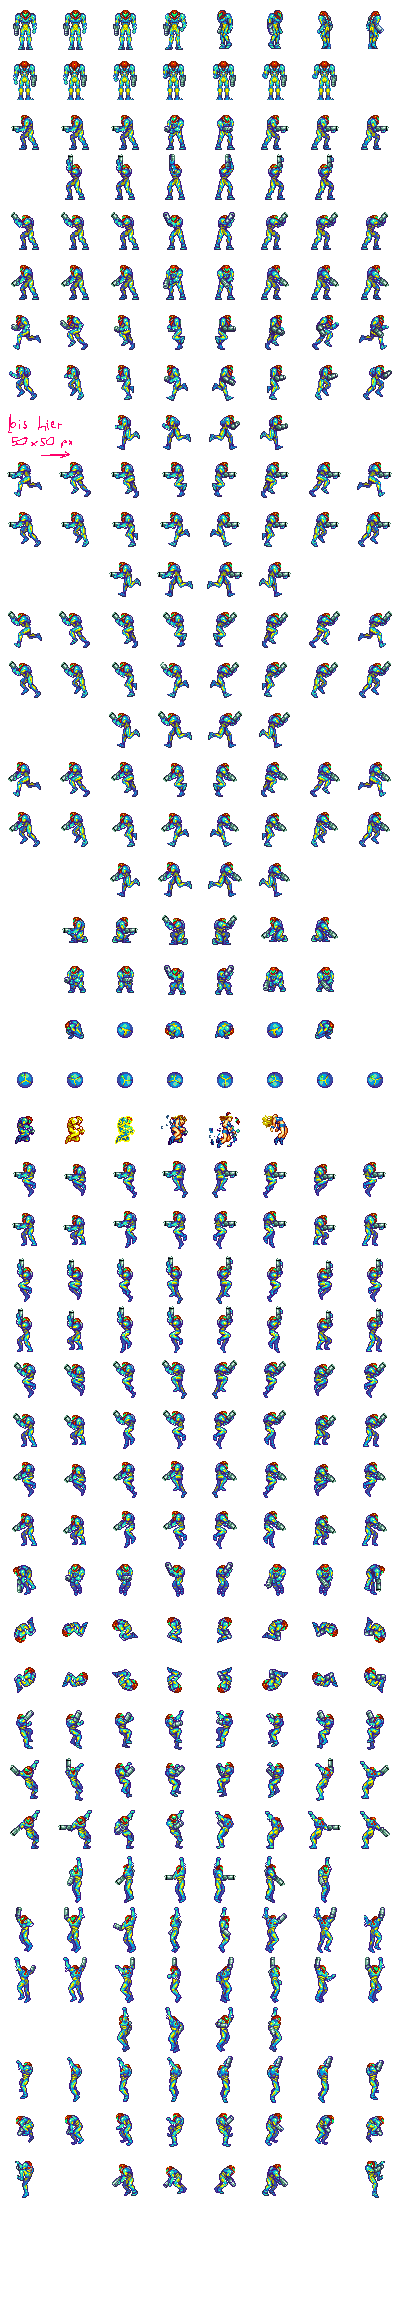
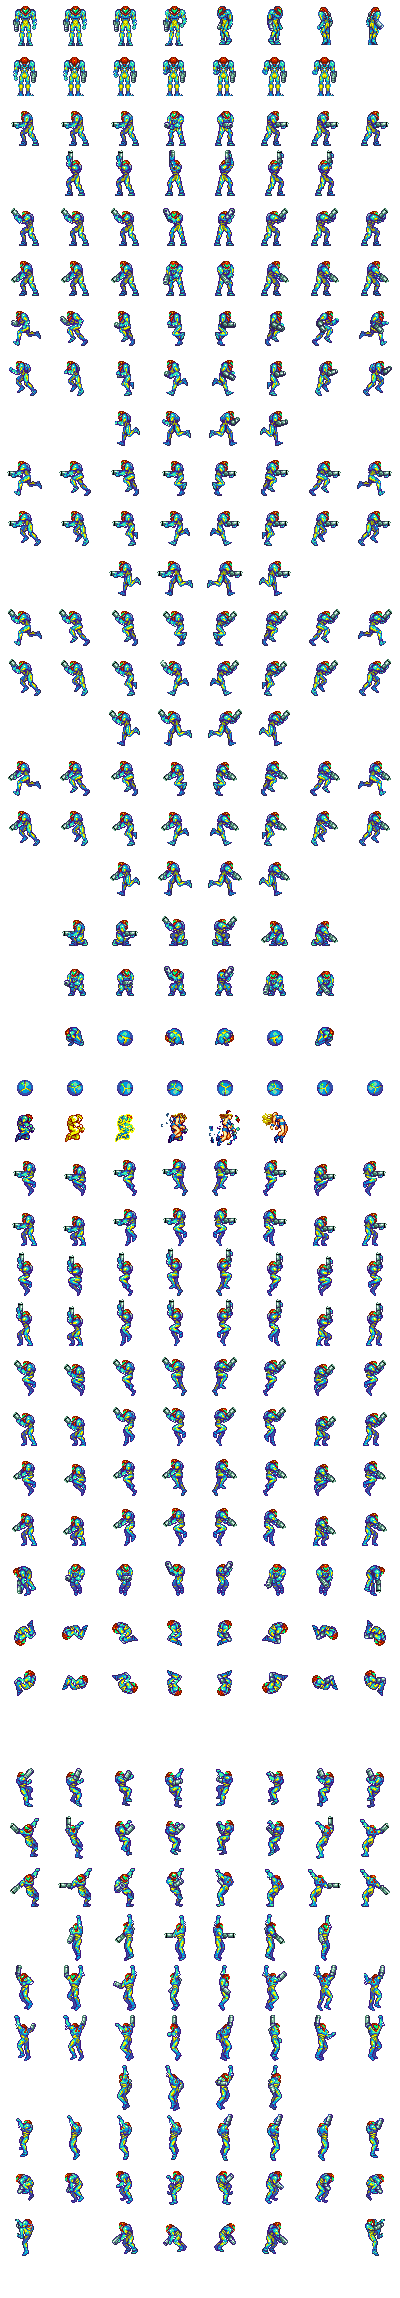
added jump types and started power grip

diff --git a/main.js b/main.js
@@ -25,6 +25,12 @@ var jumpButton;
 var bg;
 var airTiles;
 var motion = 0;
+var horizontalJump = false;
+var verticalJump = false;
+var gripTiles;
+var powerGrip = false;
+var gripClimb = false;
+var gripFall = false;
 
 function create() {
 
@@ -84,7 +90,7 @@ function create() {
 
     player.body.bounce.y = 0;
     player.body.collideWorldBounds = true;
-    player.body.setSize(16, 32, 17, 18);
+    player.body.setSize(16, 32, 17, 14);
 
     player.animations.add('standLeft', [18, 17, 16], 3, true);
     player.animations.add('standRight', [21, 22, 23], 3, true);
@@ -92,12 +98,14 @@ function create() {
     player.animations.add('turnRight', [19, 20], 20, false);
     player.animations.add('walkLeft', [51, 50, 49, 48, 59, 58, 57, 56, 67, 66], 20, true);
     player.animations.add('walkRight', [52, 53, 54, 55, 60, 61, 62, 63, 68, 69], 20, true);
+    player.animations.add('horizontalJumpLeft', [259, 258, 257, 256, 267, 266, 265, 264], 30, true);
+    player.animations.add('horizontalJumpRight', [260, 261, 262, 263, 268, 269, 270, 271], 30, true);
 
     game.camera.follow(player);
 
     deco1 = map.createLayer('deco1');
 
-    game.physics.arcade.gravity.y = 1000;
+    player.body.gravity.y = 1000;
 
     cursors = game.input.keyboard.createCursorKeys();
     //jumpButton = game.input.keyboard.addKey(Phaser.Keyboard.SPACEBAR);
@@ -126,7 +134,7 @@ function update() {
 
     game.physics.arcade.collide(player, layer);
 
-    if (cursors.left.isDown || motion < -5)
+    if ((cursors.left.isDown || motion < -5) && !cursors.right.isDown && !horizontalJump && !powerGrip)
     {
         if (direction != 'left') {
             direction = 'left';
@@ -155,7 +163,7 @@ function update() {
         }
 
     }
-    else if (cursors.right.isDown || motion > 5)
+    else if ((cursors.right.isDown || motion > 5) && !cursors.left.isDown && !horizontalJump && !powerGrip)
     {
         if (direction != 'right') {
             direction = 'right';
@@ -185,17 +193,10 @@ function update() {
     }
     else
     {
-        if (player.body.onFloor()) {
-            if (player.body.velocity.x > 0) {
-                player.body.velocity.x += -50;
-            } else if (player.body.velocity.x < 0) {
-                player.body.velocity.x += 50;
-            }
-            if (player.body.velocity.x < 50 && player.body.velocity.x > -50) {
-                player.body.velocity.x = 0;
-            }
+        if (player.body.onFloor() || verticalJump) {
+            player.body.velocity.x = 0;
         }
-        if (facing != 'idle')
+        if (facing != 'idle' && player.body.onFloor())
         {
             player.animations.stop();
 
@@ -223,11 +224,55 @@ function update() {
             }
         }
     }
+
+    if (player.body.onFloor()) {
+        if (horizontalJump) {
+            if (direction == 'left')
+            {
+                if (cursors.left.isDown) {
+                    player.animations.play('walkLeft');
+                } else {
+                    player.animations.play('standLeft');
+                }
+            }
+            else
+            {
+                if (cursors.right.isDown) {
+                    player.animations.play('walkRight');
+                } else {
+                    player.animations.play('standRight');
+                }
+            }
+            horizontalJump = false;
+            player.body.gravity.y = 1000;
+        }
+        verticalJump = false;
+    }
     
     if ( (jumpButton.isDown || jumpButton.isTouched) && player.body.onFloor() && !jumpPressed)
     {
         player.body.velocity.y = -420;
         jumpPressed = true;
+        if (cursors.right.isDown || cursors.left.isDown) {
+            horizontalJump = true;
+            player.body.gravity.y = 600;
+            player.body.velocity.y = -290;
+            if (cursors.left.isDown) {
+                player.body.velocity.x = -90;
+                direction = 'left';
+                turning = false;
+                player.animations.stop();
+                player.animations.play('horizontalJumpLeft');
+            } else {
+                player.body.velocity.x = 90;
+                direction = 'right';
+                turning = false;
+                player.animations.stop();
+                player.animations.play('horizontalJumpRight');
+            }
+        } else {
+            verticalJump = true;
+        }
     } else if (jumpButton.isUp && !jumpButton.isTouched && !player.body.onFloor() && jumpPressed) {
         if (player.body.velocity.y < -50) {
             player.body.velocity.y = -50;            
@@ -237,11 +282,83 @@ function update() {
         jumpPressed = false;
     }
 
+    if (horizontalJump) {
+        if (direction == 'left') {
+            player.body.velocity.x = -90;
+        } else {
+            player.body.velocity.x = 90;
+        }
+    }
+
+    if (player.body.velocity.y > 0 && (cursors.left.isDown || cursors.right.isDown)) {
+
+        gripTiles = layer.getTiles(
+            player.body.position.x - map.tileWidth / 2,
+            player.body.position.y,
+            player.body.width + map.tileWidth,
+            player.body.height,
+            false,
+            false
+        );
+
+        for (var i = 0, tile, spacingY; i < gripTiles.length; i += 1) {
+            tile = gripTiles[i];
+            if (tile.index > -1) {
+                spacingY = player.body.position.y - tile.worldY
+                if (spacingY > 0 && spacingY < tile.height / 2) {
+                    if (map.getTileAbove(0, tile.x, tile.y).index == -1) {
+                        horizontalJump = false;
+                        verticalJump = false;
+                        player.body.velocity.y = 0;
+                        player.body.velocity.x = 0;
+                        player.body.position.y = tile.worldY;
+                        if (direction == 'left') {
+                            player.body.position.x = tile.worldX + tile.width;
+                        } else {
+                            player.body.position.x = tile.worldX - player.body.width;
+                        }
+                        player.body.gravity.y = 0;
+                        powerGrip = true;
+                    }
+                }
+            }
+        }
+
+    }
+
+    if (powerGrip) {
+        if (cursors.down.isDown && gripFall) {
+            player.body.gravity.y = 1000;
+            powerGrip = false;
+            gripFall = false;
+            gripClimb = false;
+        }
+        if (cursors.up.isDown && gripClimb) {
+            player.body.gravity.y = 1000;
+            powerGrip = false;
+            gripFall = false;
+            gripClimb = false;
+            jumpPressed = true;
+            player.body.position.y = player.body.position.y - player.body.height;
+            if (direction == 'left') {
+                player.body.position.x -= map.tileWidth;
+            } else {
+                player.body.position.x += map.tileWidth;
+            }
+        }
+        if (cursors.up.isUp) {
+            gripClimb = true;
+        }
+        if (cursors.down.isUp) {
+            gripFall = true;
+        }
+    }
+
 }
 
 function render () {
 
     // game.debug.text(game.time.physicsElapsed, 32, 32);
-    // game.debug.body(player);
+     game.debug.body(player);
     // game.debug.bodyInfo(player, 16, 24);
 }

diff --git a/slopes.js b/slopes.js
@@ -42,8 +42,6 @@
         for (var i = 0, tile, _slope, slopeFunction; i < this._mapData.length; i += 1) {
             tile = this._mapData[i];
 
-            tile.alpha = 0.5;
-
             if (tile.hasOwnProperty('slopeFunction')) {
                 slopeFunction = tile.slopeFunction;
             } else {
